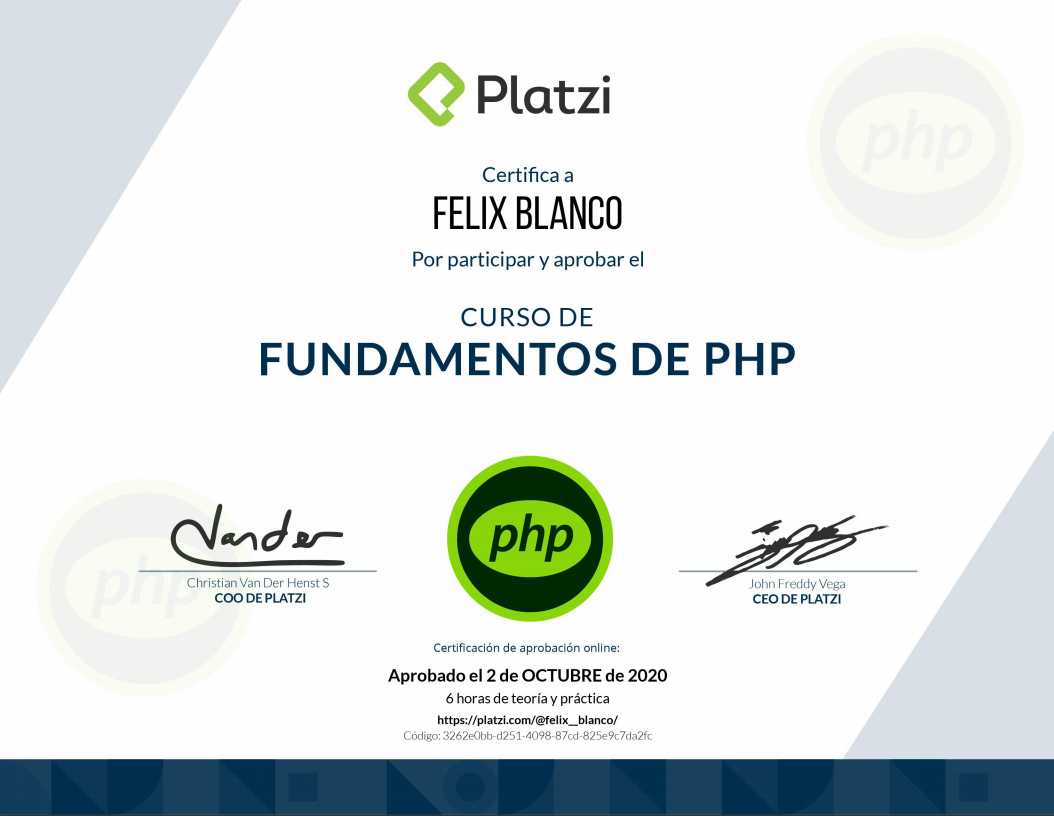
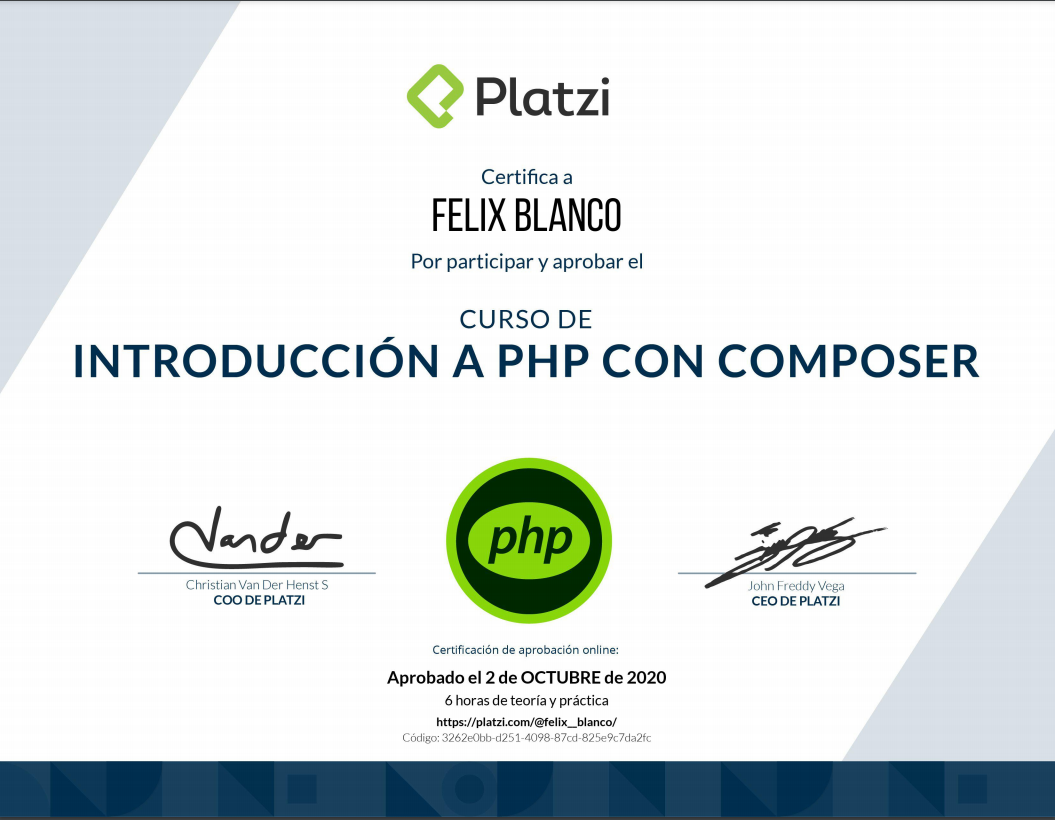
cambios

diff --git a/style.css b/style.css
@@ -28,11 +28,17 @@ h1,h2,h3,h4,h5,h6{
 
 #landing-content{
   margin-top: 7%;    
+  text-align: justify;
 }
 
 #navbarGeneral{
   margin-left: 3%;
 }
+
+a{
+  color: #0c4064;
+}
+
 .active{
   border-bottom: 1px solid #0c4064;
 }

diff --git a/functions.php b/functions.php
@@ -44,6 +44,7 @@ $certificaciones = [
 		'title' => 'Curso de Introducción a Laravel',
 		'url'		=> 'https://platzi.com/p/felix__blanco/curso/1842-intro-laravel-2020/diploma/detalle/',
 		'img'		=> '/img/certificados/intro-laravel.png',
+		'img_mini' => 'https://static.platzi.com/media/achievements/badge-introduccion-laravel-d20f3aa8-53fc-4a0e-aa7f-69c750d4ccbb.png',
 		'tech'	=> ['PHP','LARAVEL'],
 		'perfil'=> 'BACKEND'
 	],
@@ -51,6 +52,7 @@ $certificaciones = [
 		'title' => 'Curso de API REST',
 		'url'		=> 'https://platzi.com/@felix__blanco/curso/api-rest/diploma/',
 		'img'		=> '/img/certificados/api-rest.png',
+		'img_mini' => 'https://static.platzi.com/media/achievements/badge-api-rest-212c45cd-0b2b-4989-90c5-b489c0627de4.png',
 		'tech'	=> ['BACKEND'],
 		'perfil'=> 'BACKEND'
 	],
@@ -58,6 +60,7 @@ $certificaciones = [
 		'title' => 'Curso de Gestión de Dependencias y Paquetes con NPM',
 		'url'		=> 'https://platzi.com/@felix__blanco/curso/npm/diploma/',
 		'img'		=> '/img/certificados/npm.png',
+		
 		'tech'	=> ['JS'],
 		'perfil'=> 'FRONTEND'
 	],
@@ -65,6 +68,7 @@ $certificaciones = [
 		'title' => 'Curso de Manejo de Datos en Laravel con Eloquent ORM',
 		'url'		=> 'https://platzi.com/p/felix__blanco/curso/1920-eloquent-laravel/diploma/detalle/',
 		'img'		=> '/img/certificados/orm.png',
+		'img_mini' => 'https://static.platzi.com/media/achievements/badge-configurar-eloquent-model-laravel-68179995-fe12-4709-a62e-9a03d1483a20.png',
 		'tech'	=> ['PHP','LARAVEL'],
 		'perfil'=> 'BACKEND'
 	],
@@ -79,6 +83,7 @@ $certificaciones = [
 		'title' => 'Curso de PHP con Laravel',
 		'url'		=> 'https://platzi.com/@felix__blanco/curso/curso-php-laravel/diploma/',
 		'img'		=> '/img/certificados/php-laravel.png',
+		'img_mini' => 'https://static.platzi.com/media/achievements/badge-laravel-ed7723f2-1ec9-4e5b-b4b5-ba70548083a5.png',
 		'tech'	=> ['PHP','LARAVEL'],
 		'perfil'=> 'BACKEND'		
 	],
@@ -148,9 +153,10 @@ $certificaciones = [
 		'perfil'=> 'FRONTEND'			
 	],				
 	[
-		'title' => 'Curso de Fundamentos de PHP',
-		'url'		=> 'https://platzi.com/@felix__blanco/curso/introduccion-php-2020/diploma/',
+		'title' => 'Curso de Introducción a PHP con Composer',
+		'url'		=> 'https://platzi.com/p/felix__blanco/curso/2024-php/diploma/detalle/',
 		'img'		=> '/img/certificados/FundamentsdePHP.png',
+		'img_mini' => 'https://static.platzi.com/media/achievements/badge-intro-php-platzi-3508edb9-2e55-42d9-bbcc-e68bb9f8b78d.png',
 		'tech'	=> ['PHP'],
 		'perfil'=> 'BACKEND'					
 	],	
@@ -165,6 +171,7 @@ $certificaciones = [
 		'title' => 'Curso de Manejo de Datos en PHP',
 		'url'		=> 'https://platzi.com/p/felix__blanco/curso/2032-datos-php/diploma/detalle/',
 		'img'		=> '/img/certificados/CursodeManejodeDatosenPHP.png',
+		'img_mini' => 'https://static.platzi.com/media/achievements/badge-manejodatos-php-f69add33-4465-4457-a81f-5e8dcbe3794c.png',
 		'tech'	=> ['PHP'],
 		'perfil'=> 'BACKEND'					
 	],																		
@@ -247,6 +254,7 @@ $certificaciones = [
 		'title' => 'Curso de Programación Orientada a Objetos: POO',
 		'url'		=> 'https://platzi.com/p/felix__blanco/curso/1474-oop/diploma/detalle/',
 		'img'		=> '/img/certificados/ProgramaciOnOrientadaObjetos.png',
+		'img_mini' => 'https://static.platzi.com/media/achievements/badges-poo-513deb20-a5bd-40a7-b97a-c36dc772d512.png',
 		'tech'	=> ['PHP','COMPLEMENTO'],
 		'perfil'=> 'BACKEND'				
 	],	
@@ -326,6 +334,7 @@ $certificaciones = [
 		'title' => 'Curso de API REST con Laravel',
 		'url'		=> 'https://platzi.com/p/felix__blanco/course/2185-laravel-api/diploma/detalle/',
 		'img'		=> '/img/certificados/API-RESP-LARAVEL.png',
+		'img_mini' => 'https://static.platzi.com/media/achievements/badge-api-rest-laravel-b7b91364-00ac-4f2b-8b2a-e30a95211d4b.png',
 		'tech'	=> ['PHP','LARAVEL'],
 		'perfil'=> 'BACKEND'				
 	],	
@@ -340,6 +349,7 @@ $certificaciones = [
 		'title' => 'Curso Básico de Python',
 		'url'		=> 'https://platzi.com/p/felix__blanco/course/1937-python/diploma/detalle/',
 		'img'		=> '/img/certificados/PYTHON-BASICO.png',
+		'img_mini' => 'https://static.platzi.com/media/achievements/badge-basico-python-bdcc67b3-031d-4dce-8e78-5699fb243149.png',
 		'tech'	=> ['PY'],
 		'perfil'=> 'BACKEND'				
 	],					

diff --git a/front-page.php b/front-page.php
@@ -9,9 +9,12 @@
           <div>
             <h1 id="titulo">Felix Blanco</h1>
             <h4 id="sub-titulo">FULLSTACK DEVELLOPER</h4>
-            <p class="my-2 text-justify" id="descripcion-landing">
-              Desarrollo aplicaciones web y movil usando Laravel, Angular, ReactJs, Nodejs, Ionic y React Native. 
-              en mis tiempos libre desarrollo en mis proyectos personales. 
+            <p class="my-2" id="descripcion-landing">
+              Soy Desarrollador de Apps web\Móvil usando todo el poder de Angular, React, 
+              Laravel y Nodejs, desarrolle <a href="https://blancofelix.com/que-me-inspiro-a-desarrollar-bodega/" target="_blank">Bodega</a> 
+              y <a href="https://librogallero.com/" target="_blank">Libro Gallero</a> 
+              como proyectos personales y me gusta compartir mi conocimiento por internet. 
+
             </p>
             <div class="nav-social mt-2">
               <ul class="nav">

diff --git a/header.php b/header.php
@@ -5,7 +5,15 @@
   <meta name="viewport" content="width=device-width, initial-scale=1.0">
 
   <?php // wp_head(); ?>
-  <title><?php bloginfo('name')." - "; if(wp_title(' ', false)) { echo ' | '; } else { echo ' '.bloginfo('description'); } wp_title('') ." - "; ?></title>
+  <title><?php 
+    bloginfo('name');
+    echo " "; 
+    if(wp_title(' ', false)) { 
+      echo ' | '; 
+    } else { 
+      echo ' '.bloginfo('description'); 
+    } 
+    wp_title('') ." - "; ?></title>
 
 
   <meta name="description" content="Hola soy Felix Blanco, Fullstack Developer, escribiendo codigo desde hace + de cuatros años.">

diff --git a/page-certificaciones.php b/page-certificaciones.php
@@ -9,7 +9,7 @@ get_header();
   <div class="row mt-5">
     <div class="col-md-12">
       <h2 class="title p-2">Certificaciones</h2>
-    </div>
+    </div>  
   </div>
 
   <div class="row mt-5">
